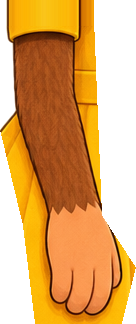
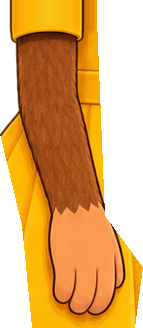
Corrige o teste do reencontro: banco para sentar, troca sem fantasma, abraço e beijo
- Vestido dela refeito sem manchas onde o braço foi removido
- Banco baixo de pedra: sentado com coxa horizontal e canela vertical
- Caminhada com ciclo exato: troca direta em pose de pés juntos
- Abraço com o braço dele por trás dela (rosto dela à vista)
- Beijo: ele recua até a boca encostar na testa dela; sem brilhos no rosto

Claude-Session: https://claude.ai/code/session_01EjseZ3W2ijPfFifFmQ5Syb

diff --git a/curta/src/demo_reencontro_v4.js b/curta/src/demo_reencontro_v4.js
@@ -7,10 +7,11 @@
 window.DURACAO_FILME = 20;
 const SHOTS = [];
 function shot(t0, t1, draw) { SHOTS.push({ t0, t1, draw }); }
-const EH = 560, FH = 465;
+const EH = 560, FH = 480;
 const CHAO = PREDIO.calcada;
-const XE_ESPERA = 640, XE_ABRACO = 905, XF_PORTA = 1320, XF_ABRACO = 988;
 const PASSO_E = 0.74 * EH;                    // distância de um ciclo de 8 quadros
+const XE_ABRACO = 905, XE_ESPERA = XE_ABRACO - PASSO_E, XF_PORTA = 1320, XF_ABRACO = 975;
+const BANCO = { x0: XE_ESPERA - 120, x1: XE_ESPERA + 25, topo: 797 };
 const K = (T, keys) => kf(T, keys, smooth);
 const KE = (T, keys) => kf(T, keys, easeInOut);
 
@@ -21,12 +22,12 @@ function andarEle(T) {
   else { x = KE(T, [[12.25, XE_ESPERA], [14.55, XE_ABRACO]]); d0 = XE_ESPERA; d1 = XE_ABRACO; }
   // fase alinhada para terminar num quadro de pés juntos (q8)
   const total = (d1 - d0) / PASSO_E;
-  const off = 7.4 / 8 - (total % 1);
+  const off = T < 3.2 ? 7.4 / 8 - (total % 1) : 7.4 / 8;
   return { x, fase: (x - d0) / PASSO_E + off };
 }
 // mistura sprite ↔ rig
 function pesoSprite(T) {
-  return K(T, [[0, 1], [2.85, 1], [3.15, 0], [12.15, 0], [12.35, 1], [14.4, 1], [14.65, 0], [20, 0]]);
+  return (T < 3.05 || (T >= 12.25 && T < 14.55)) ? 1 : 0;  // troca direta em pose de pés juntos (sem fantasma)
 }
 
 // ---------------------------------------------------------------- ELE (rig)
@@ -61,10 +62,10 @@ function poseEle(T, x) {
   if (T > 6.7 && T < 7.05) f.blink = 1;
   // ---- sentar (6.9–8.4) e levantar (11.0–12.2)
   const desce = kf(T, [[6.9, 0], [7.15, -0.04], [8.25, 1.03], [8.5, 1.0], [11.25, 1.0], [11.4, 1.0], [12.05, -0.03], [12.25, 0]], easeInOut);
-  const DROP = 285;
+  const DROP = 168;
   if (desce !== 0) {
     addP(p, 'quadril', 'dy', DROP * desce);
-    const frente = clamp(desce) * 115;
+    const frente = clamp(desce) * 168;
     for (const lado of ['N', 'T']) {
       const a = ANK[lado];
       p.pes[lado] = [x + (a[0] - d.cx + frente + (lado === 'T' ? -14 : 0)) * s, CHAO - (d.pes - a[1]) * s];
@@ -72,7 +73,7 @@ function poseEle(T, x) {
     p.ik = Object.assign(p.ik || {}, { peN: 1, peT: 1 });
   }
   // inclinação do tronco: ao descer, sentado, e antecipação ao levantar
-  const incl = 0.32 * Math.sin(seg(T, 6.95, 8.4) * Math.PI) + 0.16 * K(T, [[7.8, 0], [8.3, 1], [11.0, 1], [11.3, 1.9], [11.7, 2.0], [12.1, 0]]);
+  const incl = 0.22 * Math.sin(seg(T, 6.95, 8.4) * Math.PI) + 0.1 * K(T, [[7.8, 0], [8.3, 1], [11.0, 1], [11.3, 3.0], [11.7, 3.2], [12.1, 0]]);
   addP(p, 'tronco', 'rot', incl);
   // mãos nos joelhos
   const apoio = K(T, [[7.4, 0], [8.2, 1], [11.75, 1], [12.0, 0]]);
@@ -145,28 +146,34 @@ function contato(T, E, F) {
   F.p.lean = 0.05 * hug * (0.6 + 0.4 * recosta) - sway;
   addP(E.p, 'tronco', 'rot', 0.06 * beijo);
   addP(E.p, 'cabeca', 'rot', 0.16 * hug - 0.2 * afasta + 0.3 * beijo);
-  addP(F.p, 'cabeca', 'rot', 0.18 * recosta - 0.2 * afasta - 0.24 * beijo);
+  addP(F.p, 'cabeca', 'rot', 0.26 * recosta - 0.2 * afasta - 0.24 * beijo);
+  addP(F.p, 'cabeca', 'dy', 18 * recosta);
   F.p.lean -= 0.03 * beijo;
   // mãos nas costas do outro (o braço da frente passa por cima do corpo do outro)
   const pf = ptsP('f_perfil', Object.assign(poseP({}), F.p, { _M: null }));
   const pm = ptsP('m_perfil', Object.assign(poseP({}), E.p, { _M: null }));
   const mix2 = (a, b, k) => [lerp(a[0], b.x, k), lerp(a[1], b.y, k)];
-  E.p.maos.N = mix2(E.p.maos.N, { x: pf.costas.x - 8, y: pf.costas.y - 30 }, hug);
-  E.p.maos.T = mix2(E.p.maos.T, { x: pf.costas.x - 20, y: pf.costas.y + 10 }, hug);
-  F.p.maos.N = mix2(F.p.maos.N, { x: pm.costas.x + 10, y: pm.costas.y + 10 }, hug);
-  F.p.maos.T = mix2(F.p.maos.T, { x: pm.costas.x + 22, y: pm.costas.y - 20 }, hug);
-  E.p.z.bracoN = 1.92; E.p.z.antebracoN = 1.93; E.p.z.maoN = 1.94;
+  E.p.maos.N = mix2(E.p.maos.N, { x: pf.costas.x + 16, y: pf.costas.y - 14 }, hug);
+  if (hug > 0.5) E.p.maoVar = { N: 'segurando', T: 'aberta' };
+  E.p.maos.T = mix2(E.p.maos.T, { x: pf.costas.x - 30, y: pf.costas.y + 10 }, hug);
+  F.p.maos.N = mix2(F.p.maos.N, { x: pm.costas.x + 14, y: pm.costas.y + 40 }, hug);
+  F.p.maos.T = mix2(F.p.maos.T, { x: pm.costas.x + 30, y: pm.costas.y + 20 }, hug);
+  E.p.z.bracoN = 0.95; E.p.z.antebracoN = 0.96; E.p.z.maoN = 1.97;
+  E.p.z.bracoT = -0.4; E.p.z.antebracoT = -0.39; E.p.z.maoT = -0.38;
   F.p.z.bracoT = -0.3; F.p.z.antebracoT = -0.29;
-  E.p.z.cabeca = 2.2; E.p.z.pescoco = 0.3;
+  E.p.z.cabeca = 1.55;
   // rostos
-  E.f = { blink: 0, fechado: (afasta > 0.5 && beijo < 0.4) ? 0 : 1, boca: beijo > 0.5 ? 'o' : 'sorriso', blush: 0.5, brilho: afasta };
-  F.f = { blink: 0, fechado: afasta > 0.5 ? 0 : 1, boca: afasta > 0.5 ? 'sorriso_aberto' : 'sorriso', blush: 0.6 + 0.3 * beijo, brilho: afasta };
+  E.f = { blink: 0, fechado: (afasta > 0.5 && beijo < 0.4) ? 0 : 1, boca: beijo > 0.5 ? 'o' : 'sorriso', blush: 0.5, brilho: beijo > 0.2 ? 0 : afasta };
+  F.f = { blink: 0, fechado: afasta > 0.5 && beijo < 0.3 ? 0 : 1, boca: afasta > 0.5 && beijo < 0.3 ? 'sorriso_aberto' : 'sorriso', blush: 0.6 + 0.3 * beijo, brilho: beijo > 0.2 ? 0 : afasta };
   // beijo: leva a boca dele até a testa dela (correção fina na cabeça)
   if (beijo > 0) {
-    const pm2 = ptsP('m_perfil', Object.assign(poseP({}), E.p, { _M: null }));
-    const pf2 = ptsP('f_perfil', Object.assign(poseP({}), F.p, { _M: null }));
-    const dx = clamp((pf2.testa.x + 6 - pm2.boca.x) / sE, -40, 40), dy = clamp((pf2.testa.y - 16 - pm2.boca.y) / sE, -40, 40);
-    addP(E.p, 'cabeca', 'dx', dx * beijo); addP(E.p, 'cabeca', 'dy', dy * beijo);
+    // ele recua o corpo até a boca encostar na testa dela (vindo do lado esquerdo)
+    for (let it = 0; it < 2; it++) {
+      const pm2 = ptsP('m_perfil', Object.assign(poseP({}), E.p, { _M: null }));
+      const pf2 = ptsP('f_perfil', Object.assign(poseP({}), F.p, { _M: null }));
+      E.p.x += clamp(pf2.testa.x - 6 - pm2.boca.x, -90, 40) * beijo;
+      if (it === 1) addP(E.p, 'cabeca', 'dy', clamp((pf2.testa.y - 8 - pm2.boca.y) / sE, -50, 50) * beijo);
+    }
   }
   return { hug, kiss: beijo };
 }
@@ -193,6 +200,12 @@ function cena(ctx, T, st) {
   predio(ctx, T + 88, porta, noite);
   predio._dentro = null;
   if (porta > 0) { const [x, y, w, h] = PREDIO.porta; glow(ctx, x + w / 2, y + h, 420, '#ffe6b0', 0.3 * porta); }
+  // banco baixo de pedra na calçada
+  { const b = BANCO, h = CHAO - b.topo;
+    ctx.save(); ctx.globalAlpha *= 0.25; ellipse(ctx, (b.x0 + b.x1) / 2, CHAO + 4, (b.x1 - b.x0) * 0.6, 10, 0, '#000'); ctx.restore();
+    fillRR(ctx, b.x0, b.topo, b.x1 - b.x0, h, 6, '#a9a39b', '#5e5750', 3);
+    fillRR(ctx, b.x0 - 6, b.topo - 8, b.x1 - b.x0 + 12, 14, 5, '#c4beb6', '#5e5750', 3);
+    for (let i = 1; i < 3; i++) line(ctx, b.x0 + (b.x1 - b.x0) * i / 3, b.topo + 10, b.x0 + (b.x1 - b.x0) * i / 3 - 4, CHAO - 4, 'rgba(60,50,40,0.25)', 2); }
   const lista = [];
   const ws = st.ws;
   if (ws < 1) { st.E.p.alpha = 1 - ws; lista.push(['m_perfil', st.E.p]); }
@@ -207,8 +220,7 @@ function cena(ctx, T, st) {
   if (st.c.hug > 0.6 && st.F) floatHearts(ctx, T, 15.4, 17.2, (st.a.x + st.F.p.x) / 2, CHAO - 0.95 * EH, { n: 7, spread: 200, size: 26, seed: 61 });
   if (st.c.kiss > 0.8 && pts.length > 1) {
     const f = pts[pts.length - 1].testa;
-    floatHearts(ctx, T, 18.2, 19.8, f.x, f.y - 30, { n: 6, spread: 110, size: 22, seed: 71 });
-    sparkles(ctx, T, 18.2, 19.3, f.x, f.y, { n: 9, spread: 130, size: 12 });
+    floatHearts(ctx, T, 18.4, 19.8, f.x - 40, f.y - 120, { n: 4, spread: 90, size: 20, seed: 71 });
   }
   return pts;
 }
@@ -229,12 +241,12 @@ function tomada(camFn) {
   };
 }
 const cabecaEle = (st) => ptsP('m_perfil', Object.assign(poseP({}), st.E.p, { _M: null })).olho;
-shot(0, 3.2, tomada(T => [lerp(560, 760, eio(T, 0, 3.2)), 580, 1.05]));
+shot(0, 3.2, tomada(T => [lerp(520, 700, eio(T, 0, 3.2)), 580, 1.05]));
 shot(3.2, 6.3, tomada(T => [XE_ESPERA + 40, CHAO - 0.56 * EH, lerp(1.7, 1.8, seg(T, 3.2, 6.3))]));
 shot(6.3, 9.6, tomada(T => [XE_ESPERA + 90, lerp(650, 670, seg(T, 6.3, 9.6)), 1.35]));
 shot(9.6, 10.45, tomada(T => [1250, 610, 1.4]));
 shot(10.45, 11.1, tomada((T, st) => { const h = cabecaEle(st); return [h.x - 10, h.y + 40, 2.6]; }));
-shot(11.1, 14.75, tomada(T => [lerp(840, 870, seg(T, 11.1, 14.75)), 600, 1.12]));
+shot(11.1, 14.75, tomada(T => [lerp(860, 900, seg(T, 11.1, 14.75)), 610, 1.05]));
 shot(14.75, 17.4, tomada(T => [(XE_ABRACO + XF_ABRACO) / 2, CHAO - 0.6 * EH, lerp(1.75, 1.85, seg(T, 14.75, 17.4))]));
 shot(17.4, 20, tomada(T => [(XE_ABRACO + XF_ABRACO) / 2 + 10, CHAO - 0.78 * EH, lerp(2.45, 2.6, seg(T, 17.4, 20))]));
 

diff --git a/curta/assets/rig/f_perfil/rig.js b/curta/assets/rig/f_perfil/rig.js
@@ -1,2 +1,2 @@
 window.RIG_DATA = window.RIG_DATA || {};
-window.RIG_DATA["f_perfil"] = {"perfil": true, "partes": {"cabeca": {"x": 15, "y": 18, "w": 355, "h": 363, "pai": "tronco", "pivo": [230.0, 380.0], "z": 50}, "quadril": {"x": 63, "y": 353, "w": 313, "h": 478, "pai": "raiz", "pivo": [235.0, 570.0], "z": 30}, "tronco": {"x": 235, "y": 560, "w": 1, "h": 1, "pai": "quadril", "pivo": [235.0, 570.0], "z": 31}, "bracoN": {"x": 142, "y": 388, "w": 125, "h": 129, "pai": "tronco", "pivo": [200.0, 425.0], "z": 47}, "antebracoN": {"x": 161, "y": 475, "w": 136, "h": 324, "pai": "bracoN", "pivo": [208.0, 505.0], "z": 46, "ponta": [245, 770]}, "bracoT": {"x": 172, "y": 388, "w": 125, "h": 129, "pai": "tronco", "pivo": [230.0, 425.0], "z": 7}, "antebracoT": {"x": 191, "y": 475, "w": 136, "h": 324, "pai": "bracoT", "pivo": [238.0, 505.0], "z": 6, "ponta": [275, 770]}, "pernaN": {"x": 152, "y": 723, "w": 164, "h": 380, "pai": "quadril", "pivo": [200.0, 740.0], "z": 20}, "pernaT": {"x": 188, "y": 723, "w": 164, "h": 380, "pai": "quadril", "pivo": [236.0, 740.0], "z": 12}}, "olhos": [], "rosto": {"olho_fechado": {"x": 266, "y": 197, "w": 66, "h": 77}, "olho_meio": {"x": 266, "y": 197, "w": 66, "h": 77}, "boca_riso": {"x": 307, "y": 290, "w": 50, "h": 28}, "boca_aberta": {"x": 310, "y": 293, "w": 44, "h": 23}, "boca_sorriso_aberto": {"x": 312, "y": 295, "w": 40, "h": 18}, "boca_o": {"x": 321, "y": 291, "w": 22, "h": 25}, "boca_beijo": {"x": 315, "y": 293, "w": 34, "h": 21}}, "altura": 1100, "cx": 220, "pes": 1112, "olho": {"cx": 301.0, "cy": 235.5, "caixa": [282, 207, 320, 264]}, "boca": {"cx": 332, "cy": 300}, "pele": "#fd9c53", "pts": {"testa": [300, 170], "peito": [292, 452], "costas": [156, 470], "ombro": [200, 425], "boca": [345, 300], "nuca": [70, 260], "bochecha": [290, 285]}};
+window.RIG_DATA["f_perfil"] = {"perfil": true, "partes": {"cabeca": {"x": 15, "y": 18, "w": 355, "h": 363, "pai": "tronco", "pivo": [230.0, 380.0], "z": 50}, "quadril": {"x": 60, "y": 413, "w": 319, "h": 414, "pai": "raiz", "pivo": [235.0, 570.0], "z": 30}, "tronco": {"x": 235, "y": 560, "w": 1, "h": 1, "pai": "quadril", "pivo": [235.0, 570.0], "z": 31}, "bracoN": {"x": 142, "y": 388, "w": 125, "h": 129, "pai": "tronco", "pivo": [200.0, 425.0], "z": 47}, "antebracoN": {"x": 158, "y": 475, "w": 143, "h": 328, "pai": "bracoN", "pivo": [208.0, 505.0], "z": 46, "ponta": [245, 770]}, "bracoT": {"x": 172, "y": 388, "w": 125, "h": 129, "pai": "tronco", "pivo": [230.0, 425.0], "z": 7}, "antebracoT": {"x": 188, "y": 475, "w": 143, "h": 328, "pai": "bracoT", "pivo": [238.0, 505.0], "z": 6, "ponta": [275, 770]}, "pernaN": {"x": 152, "y": 723, "w": 164, "h": 380, "pai": "quadril", "pivo": [200.0, 740.0], "z": 20}, "pernaT": {"x": 188, "y": 723, "w": 164, "h": 380, "pai": "quadril", "pivo": [236.0, 740.0], "z": 12}}, "olhos": [], "rosto": {"olho_fechado": {"x": 266, "y": 197, "w": 66, "h": 77}, "olho_meio": {"x": 266, "y": 197, "w": 66, "h": 77}, "boca_riso": {"x": 307, "y": 290, "w": 50, "h": 28}, "boca_aberta": {"x": 310, "y": 293, "w": 44, "h": 23}, "boca_sorriso_aberto": {"x": 312, "y": 295, "w": 40, "h": 18}, "boca_o": {"x": 321, "y": 291, "w": 22, "h": 25}, "boca_beijo": {"x": 315, "y": 293, "w": 34, "h": 21}}, "altura": 1100, "cx": 220, "pes": 1112, "olho": {"cx": 301.0, "cy": 235.5, "caixa": [282, 207, 320, 264]}, "boca": {"cx": 332, "cy": 300}, "pele": "#fd9c53", "pts": {"testa": [300, 170], "peito": [292, 452], "costas": [156, 470], "ombro": [200, 425], "boca": [345, 300], "nuca": [70, 260], "bochecha": [290, 285]}};

diff --git a/curta/src/rig_perfil.js b/curta/src/rig_perfil.js
@@ -100,6 +100,7 @@ function opsP(n, pose) {
   const r = RP[n], d = r.d, M = matP(n, pose);
   const ops = [];
   for (const k of r.ordem) {
+    if (window.__esc && n === window.__esc[0] && /^(braco|antebraco|mao)/.test(k) && k.endsWith(window.__esc[1])) continue; // depuração
     const p = d.partes[k];
     const z = (pose.zBase || 0) + (pose.z[k] != null ? pose.z[k] : p.z / 100);
     ops.push({ z, draw: (ctx, base) => {

diff --git a/curta/ferramentas/montar_rig_perfil.py b/curta/ferramentas/montar_rig_perfil.py
@@ -291,17 +291,40 @@ def ela():
     r.parte('cabeca', c, 'tronco', (230, 380), 50)
 
     braco_reg = poly_mask(S.shape, [[136, 388], [258, 388], [266, 508], [150, 518], [130, 450]])
-    ante_reg = poly_mask(S.shape, [[160, 494], [254, 494], [262, 690], [296, 742], [282, 798], [196, 798], [184, 700], [160, 600]])
-    corpo_reg = fig & ~cab & poly_mask(S.shape, [[0, 330], [400, 330], [400, 830], [0, 830]])
-    alvo = corpo_reg | ((braco_reg | ante_reg) & poly_mask(S.shape, [[60, 380], [380, 380], [380, 820], [60, 820]]) & ndimage.binary_fill_holes(fig))
-    conhecido = corpo_reg & ~braco_reg & ~ante_reg
-    rgb = inpaint(S[..., :3], conhecido, alvo)
-    t = S.copy(); t[..., :3] = np.clip(rgb, 0, 255).astype(np.uint8)
-    t[..., 3] = np.where(alvo, 255, 0); t[..., 3] = np.where(conhecido, S[..., 3], t[..., 3])
-    rr_, gg_ = S[..., 0].astype(int), S[..., 1].astype(int)
-    perna_pelo = (gg_ < 105) & (rr_ > 70)
-    t[..., 3] = np.where((yy > 770) & perna_pelo & ~ndimage.binary_dilation(gg_ > 140, iterations=4), 0, t[..., 3])
-    t[..., 3] = np.where(yy > 830, 0, t[..., 3])
+    ante_reg = poly_mask(S.shape, [[160, 494], [254, 494], [262, 690], [300, 742], [292, 802], [190, 802], [180, 700], [156, 600]])
+    braco_um = ndimage.binary_dilation(braco_reg | ante_reg, iterations=8)
+    rr_, gg_, bb_ = S[..., 0].astype(int), S[..., 1].astype(int), S[..., 2].astype(int)
+    amarelo = (rr_ > 175) & (gg_ > 115) & (bb_ < 120) & (rr_ - bb_ > 90)
+    t = np.zeros_like(S)
+    y0d, y1d = 392, 830
+    for y in range(y0d, y1d):
+        lin_am = amarelo[y] & fig[y] & ~braco_um[y]
+        xs = np.where(lin_am)[0]
+        if len(xs) < 3:
+            continue
+        L, R = xs.min() - 3, xs.max() + 3
+        if y < 790:  # costas do vestido ficam atrás do braço: usa a silhueta inteira
+            fx = np.where(fig[y])[0]
+            if len(fx):
+                L = min(L, fx.min())
+        known = np.where((fig[y] & ~braco_um[y]) & (np.arange(W) >= L) & (np.arange(W) <= R) & (amarelo[y] | (S[y, :, :3].astype(int).sum(-1) < 200)))[0]
+        if len(known) < 2:
+            continue
+        row = S[y].copy()
+        for c in range(3):
+            row[L:R + 1, c] = np.interp(np.arange(L, R + 1), known, S[y, known, c]).astype(np.uint8)
+        keep = (fig[y] & ~braco_um[y])
+        row[keep, :3] = S[y, keep, :3]
+        row[:, 3] = 0
+        row[L:R + 1, 3] = 255
+        t[y] = row
+    # suaviza só o que foi preenchido
+    pre = (t[..., 3] > 0) & ~(fig & ~braco_um)
+    for c in range(3):
+        b_ = ndimage.gaussian_filter(t[..., c].astype(float), 1.5)
+        ch = t[..., c]; ch[pre] = b_[pre].astype(np.uint8); t[..., c] = ch
+    # contorno nas bordas laterais
+    t = contorno(t, 2)
     r.parte('quadril', contorno(t), 'raiz', (235, 570), 30)
     # o "tronco" é o mesmo corpo (vestido inteiro); fica como peça vazia para a hierarquia
     vazio = np.zeros_like(S); vazio[560, 235] = [0, 0, 0, 1]
